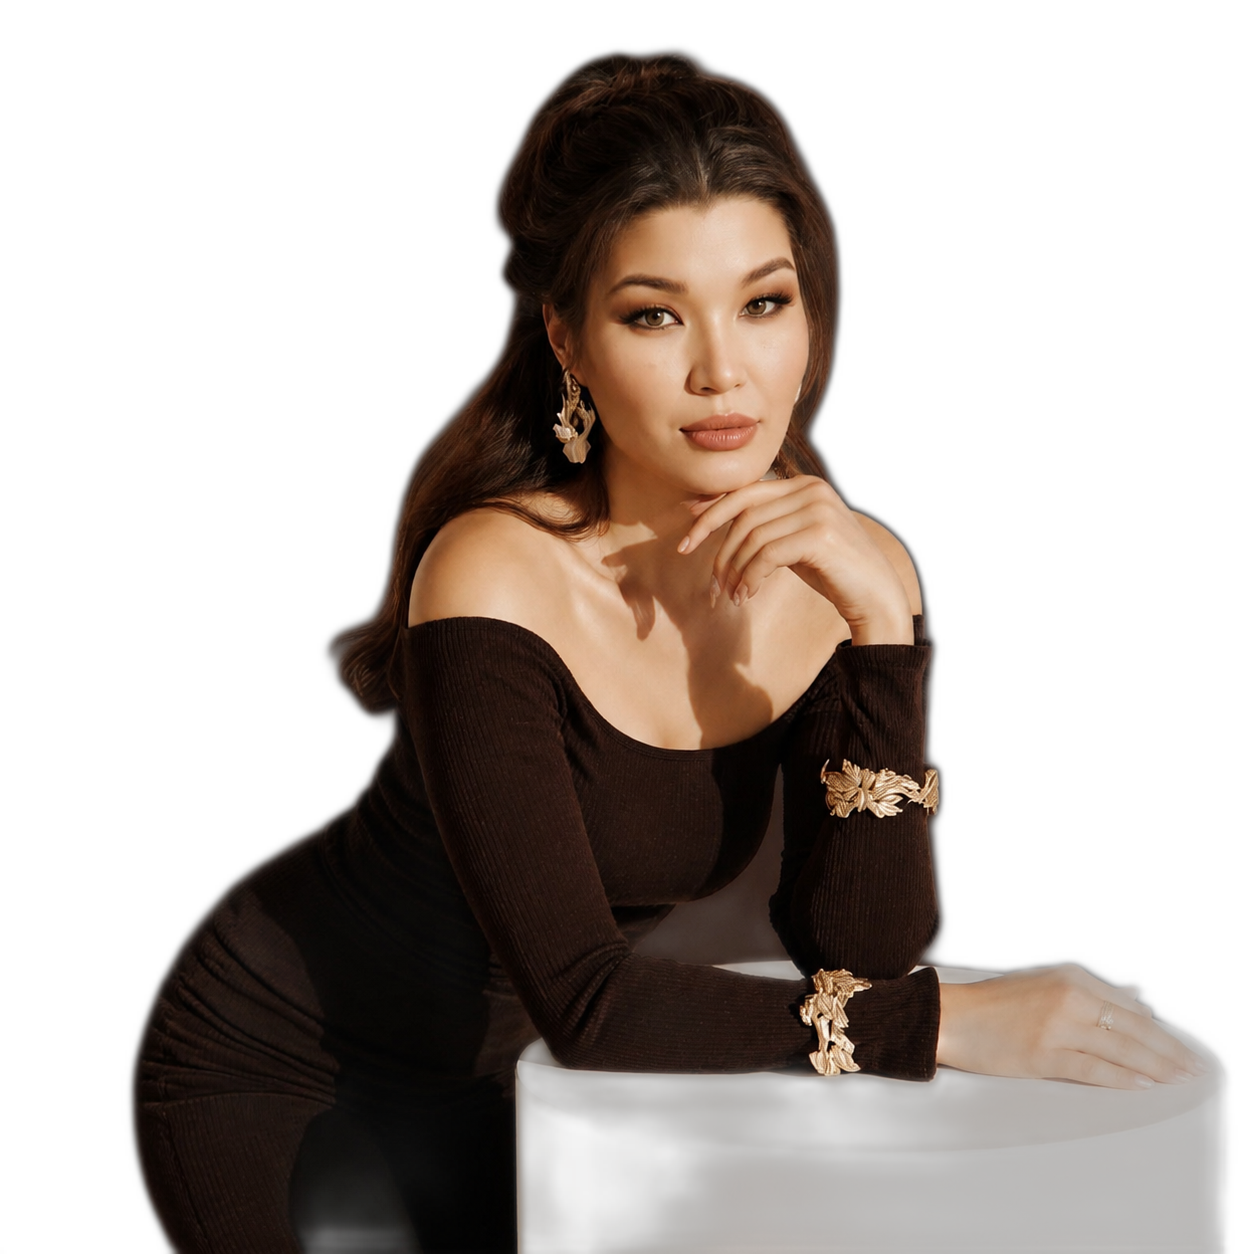
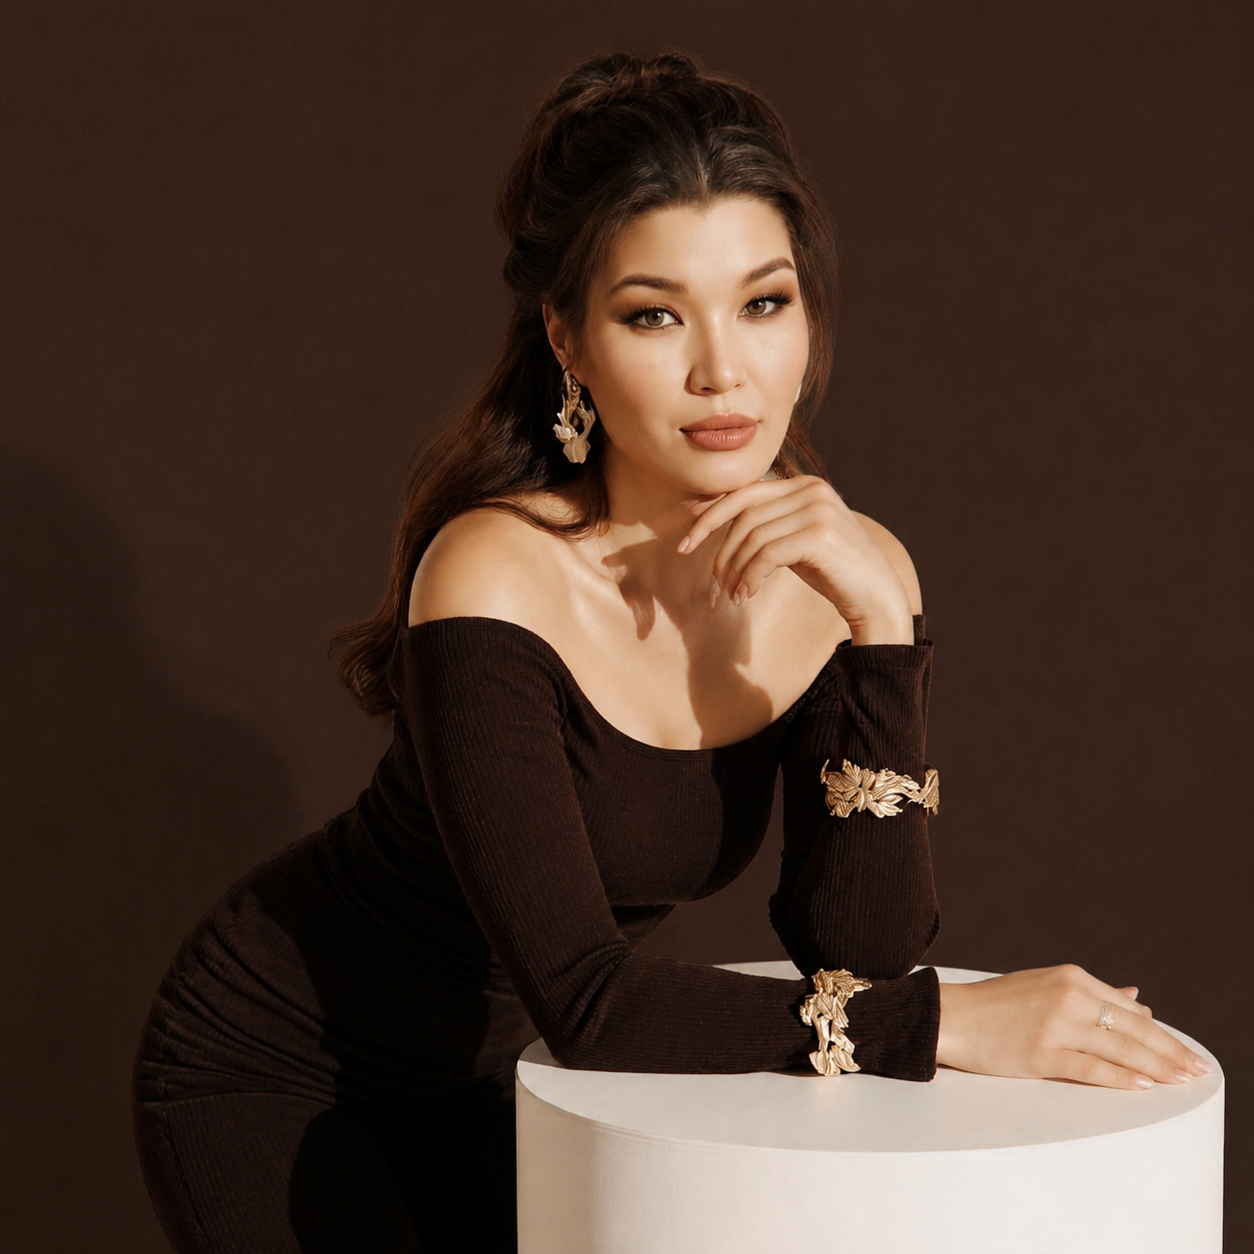
ллл

diff --git a/css/styles.css b/css/styles.css
@@ -1543,7 +1543,7 @@ img {
   }
 }
 
-/* Фото куратора: чистое изображение, лёгкая растушёвка только по внешнему контуру */
+/* Фото куратора: оригинал без масок, фильтров и обработки */
 .curator__photo {
   overflow: visible;
   position: relative;
@@ -1551,14 +1551,6 @@ img {
 }
 
 .curator__photo-inner {
-  --curator-feather-mask: radial-gradient(
-    ellipse 122% 118% at 50% 42%,
-    #000 0%,
-    #000 90%,
-    rgba(0, 0, 0, 0.75) 94%,
-    rgba(0, 0, 0, 0.35) 97.5%,
-    transparent 100%
-  );
   position: relative;
   margin: 0;
   width: 100%;
@@ -1568,12 +1560,6 @@ img {
   background: transparent;
   box-shadow: none;
   overflow: visible;
-  -webkit-mask-image: var(--curator-feather-mask);
-  mask-image: var(--curator-feather-mask);
-  -webkit-mask-repeat: no-repeat;
-  mask-repeat: no-repeat;
-  -webkit-mask-size: 100% 100%;
-  mask-size: 100% 100%;
 }
 
 .curator__photo-img {
@@ -1605,17 +1591,6 @@ img {
   .curator__photo {
     width: min(360px, 92vw);
     margin-inline: auto;
-  }
-
-  .curator__photo-inner {
-    --curator-feather-mask: radial-gradient(
-      ellipse 124% 120% at 50% 42%,
-      #000 0%,
-      #000 88%,
-      rgba(0, 0, 0, 0.72) 93%,
-      rgba(0, 0, 0, 0.32) 97%,
-      transparent 100%
-    );
   }
 
   .curator__photo-img {
